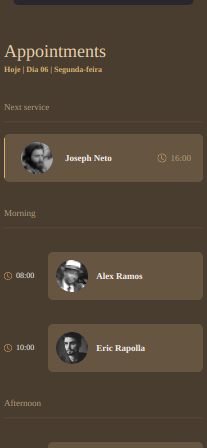
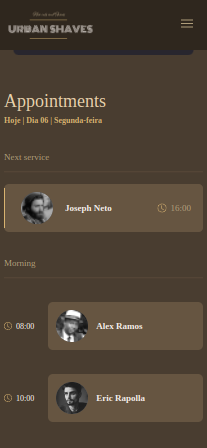
feat: criação da side bar e ajuste do header no modo responsivo

diff --git a/src/components/Header/index.tsx b/src/components/Header/index.tsx
@@ -1,7 +1,16 @@
-import { Heading, Image } from "@chakra-ui/react";
+import {
+  Box,
+  Flex,
+  Heading,
+  Image,
+  useBreakpointValue,
+} from "@chakra-ui/react";
 import React from "react";
+import Hamburger from "hamburger-react";
 import logo from "../../assets/logo.png";
+import logoSmall from "../../assets/logo-sm.png";
 import { AvatarUserProfile } from "./parts/AvatarUserProfile";
+import { useSidebarDrawer } from "../../hooks/SideBarHook";
 
 interface HeaderProps {
   name: string;
@@ -10,24 +19,44 @@ interface HeaderProps {
 }
 
 export function Header({ avatar, message, name }: HeaderProps) {
+  const { onToggle, isOpen } = useSidebarDrawer();
+  const isWideVersion = useBreakpointValue({
+    base: false,
+    lg: true,
+  });
   return (
     <Heading
       display="flex"
       bg="black.inputs"
-      h="144px"
+      h={{ base: "100px", lg: "144px" }}
       alignItems="center"
-      px="40"
+      px={{ lg: "40", base: "4" }}
       w="100%"
+      position={isWideVersion ? "unset" : "sticky"}
+      top="0"
+      zIndex="9"
     >
-      <Image src={logo} />
-      <AvatarUserProfile
-        cursor="pointer"
-        ml="16"
-        avatar={avatar}
-        name={name}
-        message={message}
-        type="header"
-      />
+      {isWideVersion ? (
+        <Image src={logo} />
+      ) : (
+        <Flex w="100%" justify="space-between">
+          <Image src={logoSmall} />
+          <Box color="orangeFontHard">
+            <Hamburger size={24} toggled={isOpen} onToggle={onToggle} />
+          </Box>
+        </Flex>
+      )}
+
+      {isWideVersion && (
+        <AvatarUserProfile
+          cursor="pointer"
+          ml="16"
+          avatar={avatar}
+          name={name}
+          message={message}
+          type="header"
+        />
+      )}
     </Heading>
   );
 }

diff --git a/src/pages/Profile.tsx b/src/pages/Profile.tsx
@@ -5,6 +5,7 @@ import { SmallAppointmentCard } from "../components/AppointmentsCards/SmallAppoi
 import Calendar from "../components/Calendar/Calendar";
 import DateText from "../components/DateText/DateText";
 import { Header } from "../components/Header";
+import SideBar from "../components/Sidebar/SideBar";
 import { TimeLineText } from "../components/TimeLine/TimeLineText";
 import { BarberText } from "../components/Typograph/BarberText";
 
@@ -15,13 +16,13 @@ function Profile() {
   });
   return (
     <VStack h="100%" w="100%" minH="100vh" minW="100vw" spacing="0">
-      {isWideVersion && (
-        <Header
-          name="Richard"
-          avatar="https://i.pravatar.cc/400?img=11"
-          message="Be Welcome"
-        />
-      )}
+      <Header
+        name="Richard"
+        avatar="https://i.pravatar.cc/400?img=11"
+        message="Be Welcome"
+      />
+      <SideBar />
+
       <Flex
         flex="1"
         w="100%"

diff --git a/src/components/Sidebar/SideBar.tsx b/src/components/Sidebar/SideBar.tsx
@@ -1,0 +1,31 @@
+import {
+  Drawer,
+  DrawerBody,
+  DrawerCloseButton,
+  DrawerContent,
+  DrawerHeader,
+  DrawerOverlay,
+  useBreakpointValue,
+} from "@chakra-ui/react";
+import React from "react";
+import { useSidebarDrawer } from "../../hooks/SideBarHook";
+
+export default function SideBar() {
+  const { isOpen, onClose } = useSidebarDrawer();
+  const isWideVersion = useBreakpointValue({
+    base: false,
+    lg: true,
+  });
+
+  return (
+    <Drawer isOpen={isOpen} placement="left" onClose={onClose}>
+      <DrawerOverlay>
+        <DrawerContent bg="black.inputs">
+          <DrawerCloseButton mt="2" />
+          <DrawerHeader>Navegação</DrawerHeader>
+          <DrawerBody />
+        </DrawerContent>
+      </DrawerOverlay>
+    </Drawer>
+  );
+}

diff --git a/src/hooks/SideBarHook.tsx b/src/hooks/SideBarHook.tsx
@@ -1,0 +1,22 @@
+import React, { createContext, ReactNode, useContext } from "react";
+
+import { useDisclosure, UseDisclosureReturn } from "@chakra-ui/react";
+
+interface SidebarDrawerProvider {
+  children: ReactNode;
+}
+
+const SidebarDrawerContext = createContext({} as UseDisclosureReturn);
+
+export default function SidebarDrawerProvider({
+  children,
+}: SidebarDrawerProvider) {
+  const disclosure = useDisclosure();
+  return (
+    <SidebarDrawerContext.Provider value={disclosure}>
+      {children}
+    </SidebarDrawerContext.Provider>
+  );
+}
+
+export const useSidebarDrawer = () => useContext(SidebarDrawerContext);

diff --git a/src/main.tsx b/src/main.tsx
@@ -2,12 +2,15 @@ import { ChakraProvider } from "@chakra-ui/react";
 import React from "react";
 import ReactDOM from "react-dom/client";
 import App from "./App";
+import SidebarDrawerProvider from "./hooks/SideBarHook";
 import { theme } from "./theme";
 
 ReactDOM.createRoot(document.getElementById("root")!).render(
   <React.StrictMode>
-    <ChakraProvider theme={theme}>
-      <App />
-    </ChakraProvider>
+    <SidebarDrawerProvider>
+      <ChakraProvider theme={theme}>
+        <App />
+      </ChakraProvider>
+    </SidebarDrawerProvider>
   </React.StrictMode>
 );
